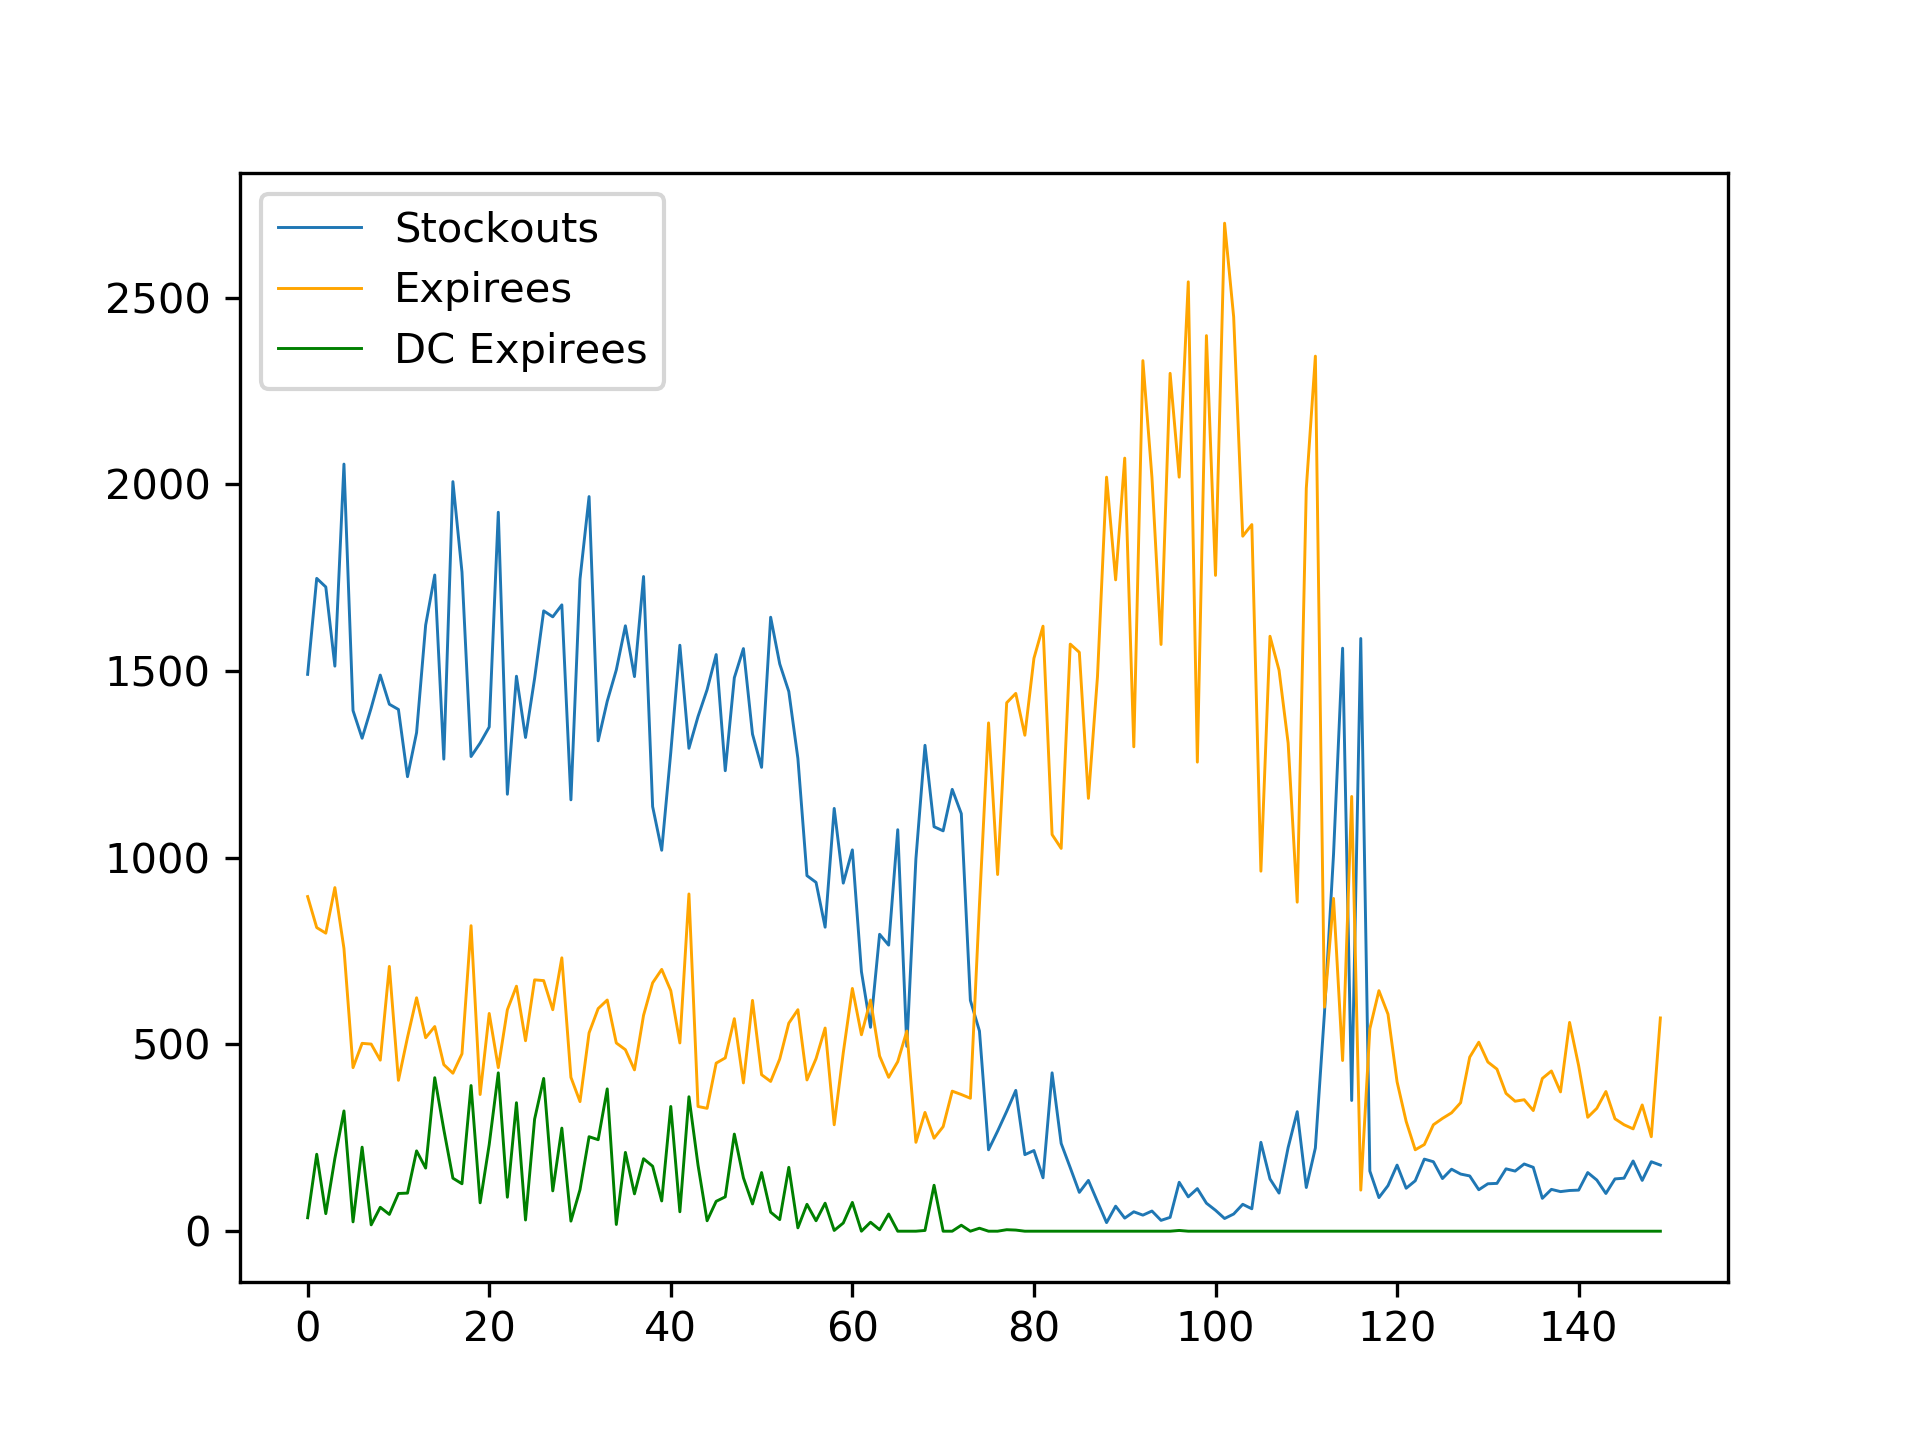
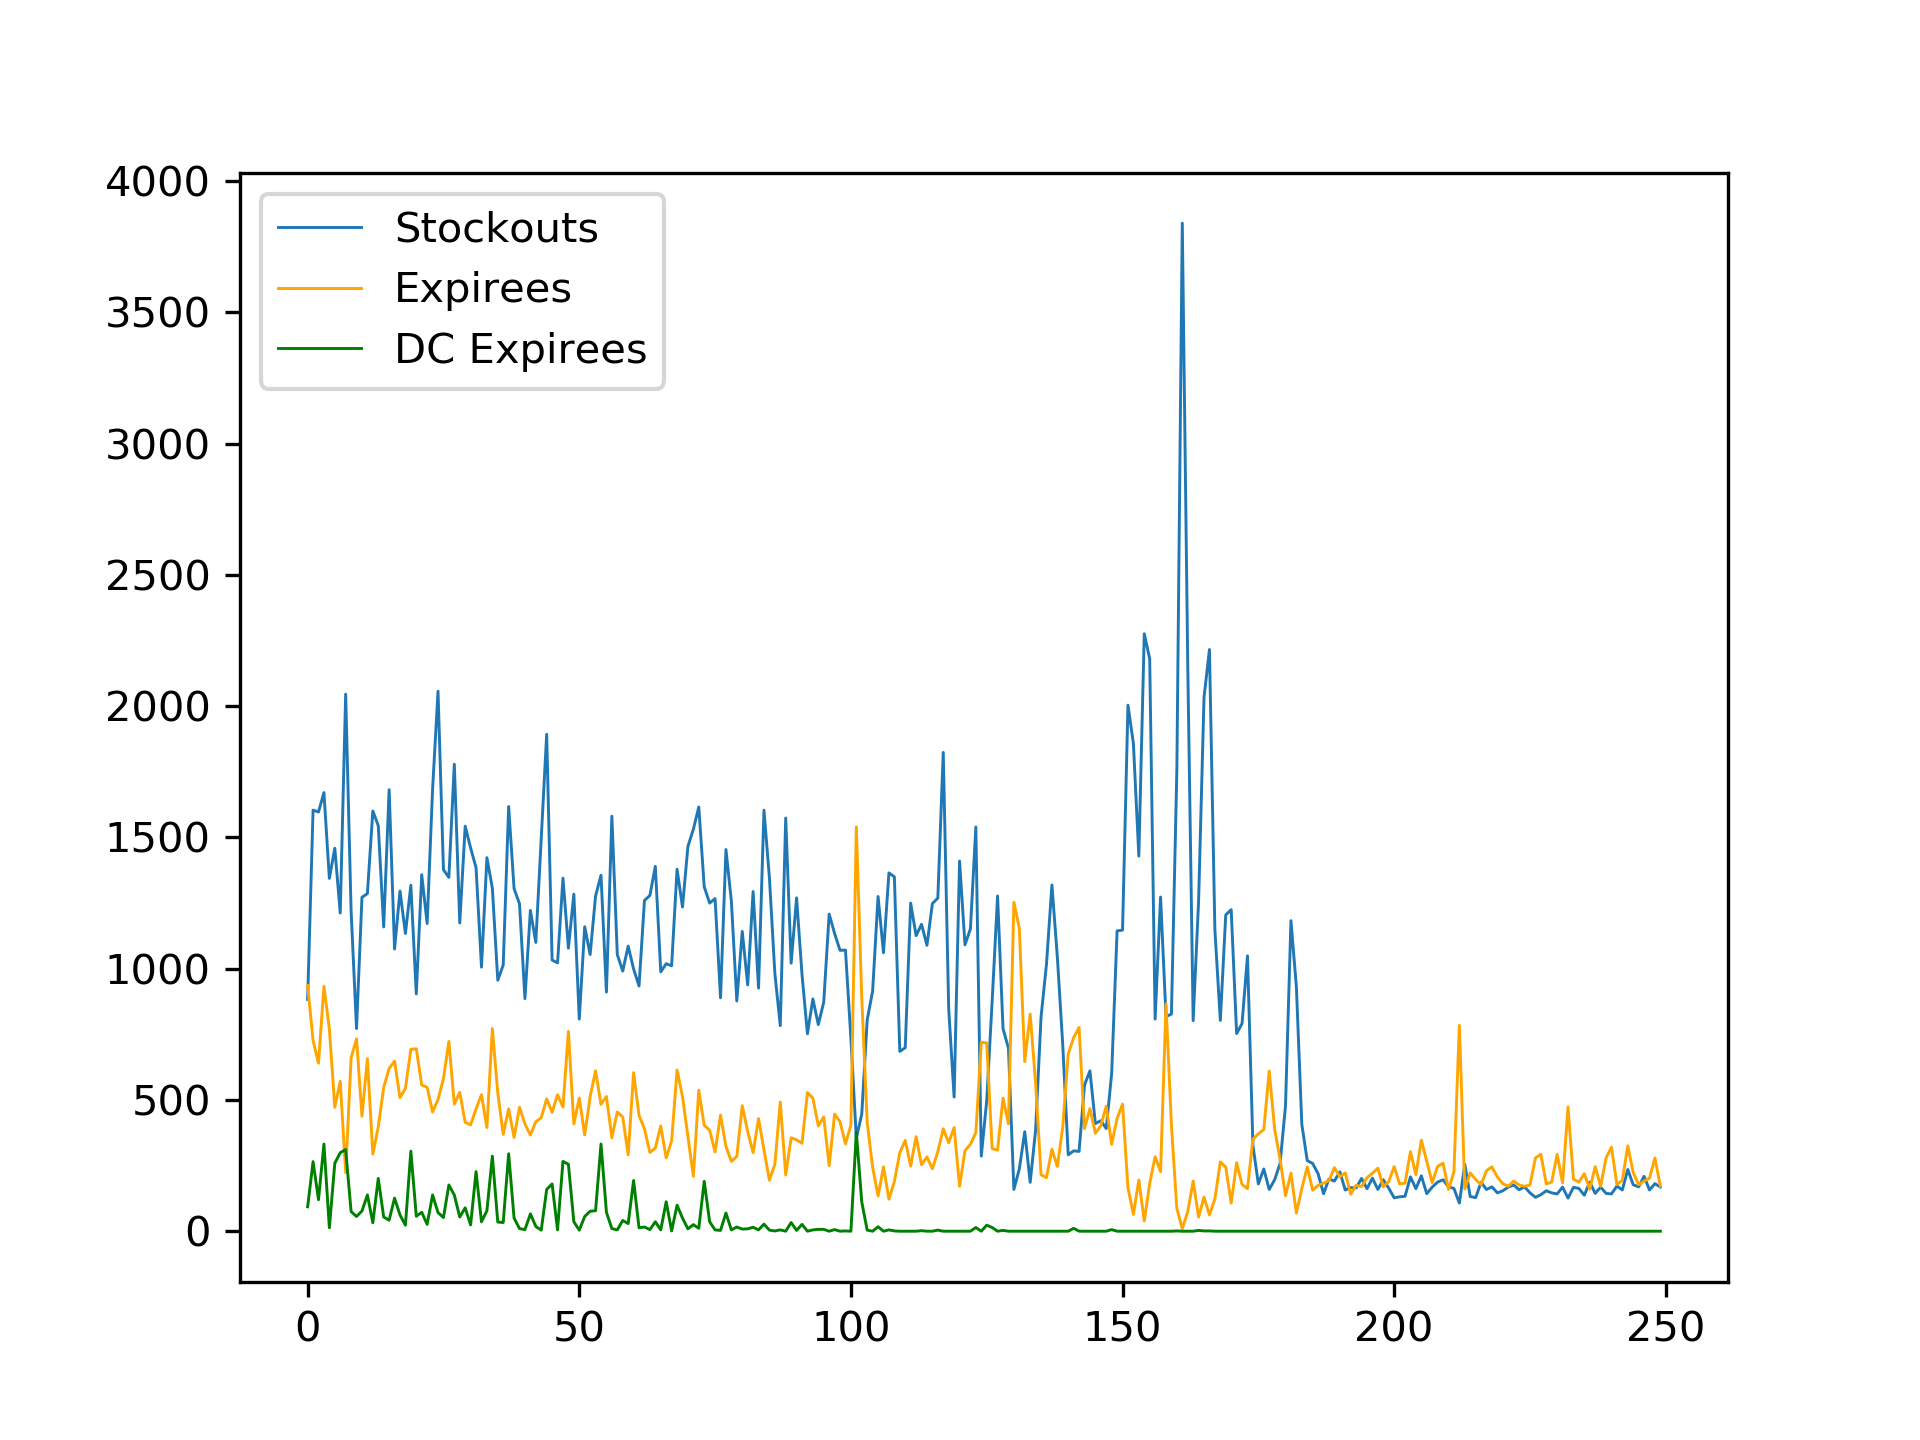
Changed forwad implt to torch.sequential

diff --git a/VMIwithDRL/src/agent_model/training_agent_torch3.py b/VMIwithDRL/src/agent_model/training_agent_torch3.py
@@ -27,12 +27,14 @@ class NN(nn.Module):
             nn.Sigmoid(),
             nn.Linear(128, 256),
             nn.Sigmoid(),
+            nn.Linear(256, 256),
+            nn.Sigmoid(),
             nn.Linear(256, model.action_dim)
         )
-        # self.l1 = nn.Linear(model.state_dim, 64)
-        # self.l2 = nn.Linear(64, 128)
-        # self.l3 = nn.Linear(128, 128)
-        # self.l4 = nn.Linear(128, model.action_dim)
+        self.l1 = nn.Linear(model.state_dim, 128)
+        self.l2 = nn.Linear(128, 256)
+        self.l3 = nn.Linear(256, 256)
+        self.l4 = nn.Linear(256, model.action_dim)
         # print(list(self.parameters()))
 
     def forward(self, x):
@@ -42,7 +44,7 @@ class NN(nn.Module):
         # x = torch.sigmoid(x)
         # x = self.l3(x)
         # x = torch.sigmoid(x)
-        #return self.l4(x)
+        # return self.l4(x)
         return self.fc(x)
 
 
@@ -83,8 +85,8 @@ class TrainingAgent:
             self.q_network.to("cuda")
         else:
             print("Training model on CPU.")
-        #self.loss = nn.SmoothL1Loss()
-        self.loss = nn.MSELoss()
+        self.loss = nn.SmoothL1Loss()
+        #self.loss = nn.MSELoss()
         self.optizer = optim.Adam(self.q_network.parameters(), amsgrad=True)
 
     def run(self, ):

diff --git a/VMIwithDRL/src/implementation/optimizer/AllocationOptimizerGoalProgramming3.py b/VMIwithDRL/src/implementation/optimizer/AllocationOptimizerGoalProgramming3.py
@@ -40,7 +40,7 @@ class AllocationOptimizer():
             cons7_plus = mdl.continuous_var_dict(self.H, 0, None, "Constraint7+")
             cons7_minus = mdl.continuous_var_dict(self.H, 0, None, "Constraint7-")
 
-            coeff = [1.0, 1, 1, 1]
+            coeff = [5.0, 1, 1, 1]
 
             mdl.minimize(mdl.sum(
                 coeff[0] * (I0[h] * self.CV + F[h] * self.CF) + coeff[1] * cons5_plus[h] + coeff[2] * cons7_plus[h] +
@@ -132,6 +132,7 @@ class AllocationOptimizer():
             #                 2] <= (
             #                                        mdl.sum([self.II[3][r] for (r) in self.R]) + mdl.sum([x[3, r] for (r) in self.R])) /
             #                                self.D[3])
+
             mdl.set_time_limit(5)
             mdl.solve()
 

diff --git a/VMIwithDRL/src/test_script.py b/VMIwithDRL/src/test_script.py
@@ -40,10 +40,10 @@ def send_mail():
 if __name__ =='__main__':
     initial_state = [0, 0, 0, 0, 0, 1, 0, 0, 0, 0]
     # print(tensorflow.test.is_gpu_available())
-    train_runs=150
+    train_runs=250
     model = VMI(4, 100, 5, initial_state, 5, 100)
     agent = TrainingAgent(model=model, runs=train_runs, steps_per_run=365, batch_size=32, memory=1825, use_gpu=True,
-                          epsilon_function='gompertz', min_epsilon=0.01, epsilon_min_percentage=0.1, gamma=0.99)
+                          epsilon_function='linear', min_epsilon=0.01, epsilon_min_percentage=0.25)
     rewards = agent.run()
     agent.validate(5,365)
     log = model.log
